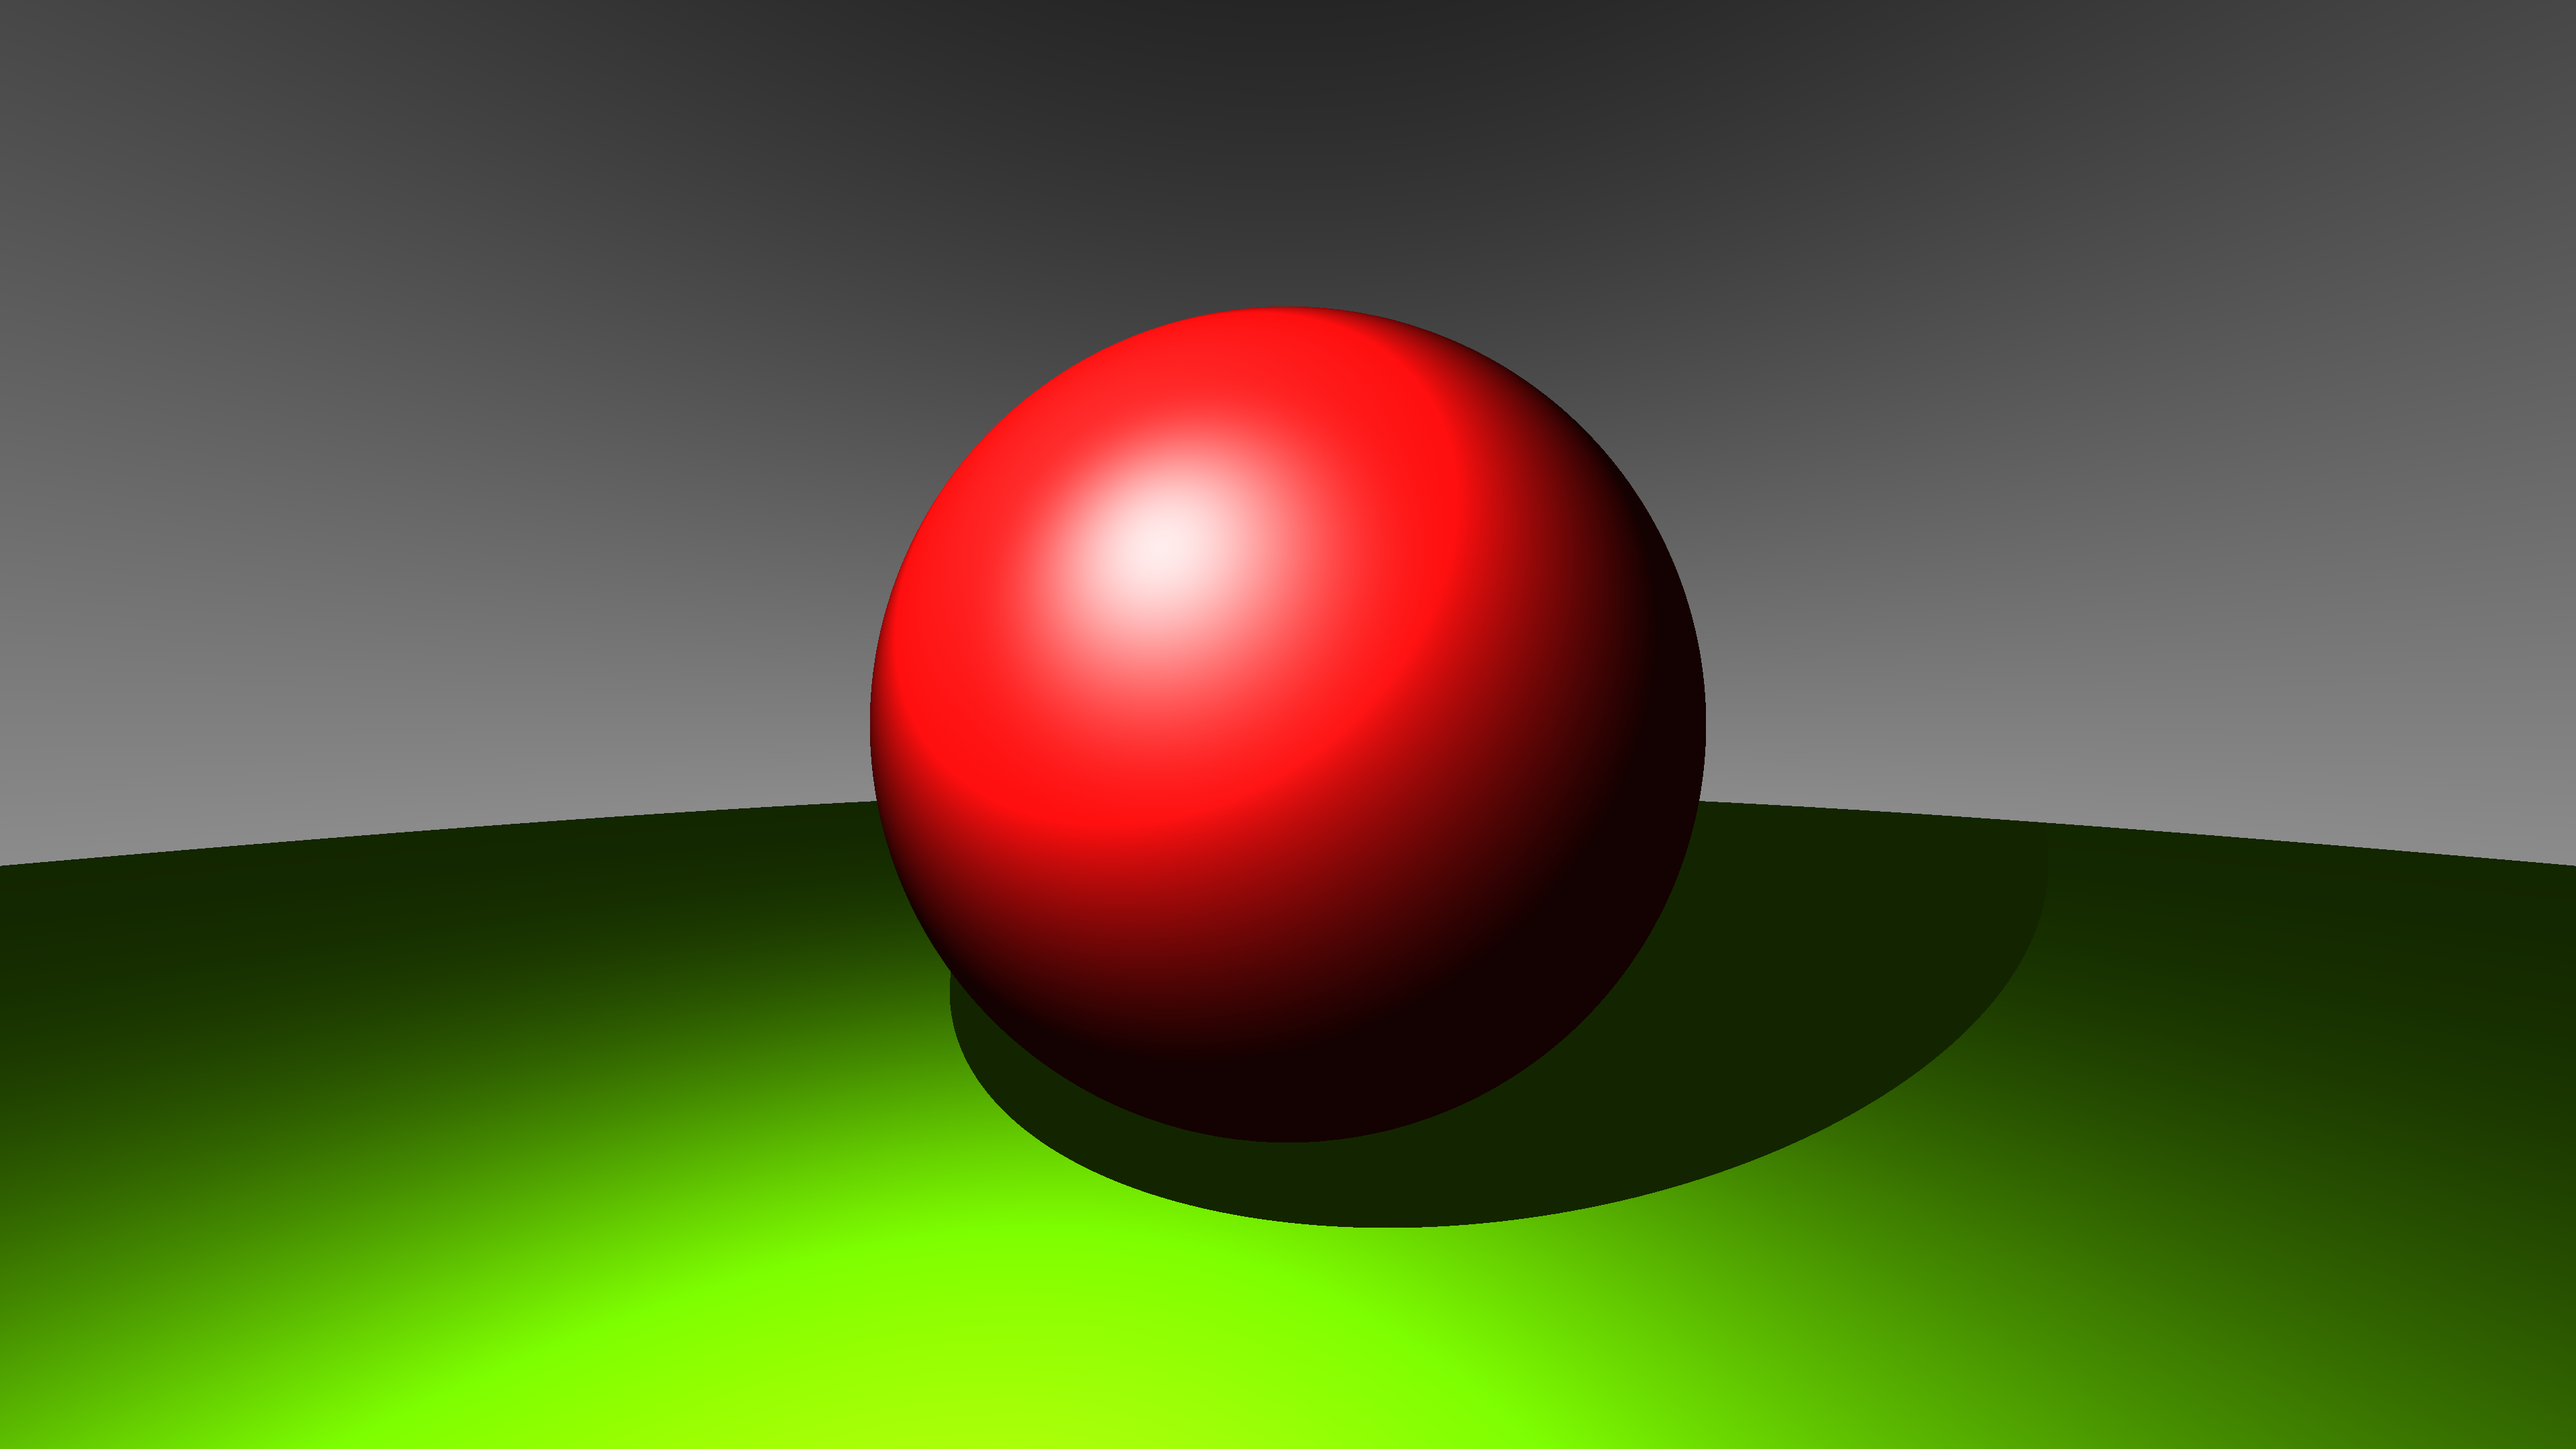
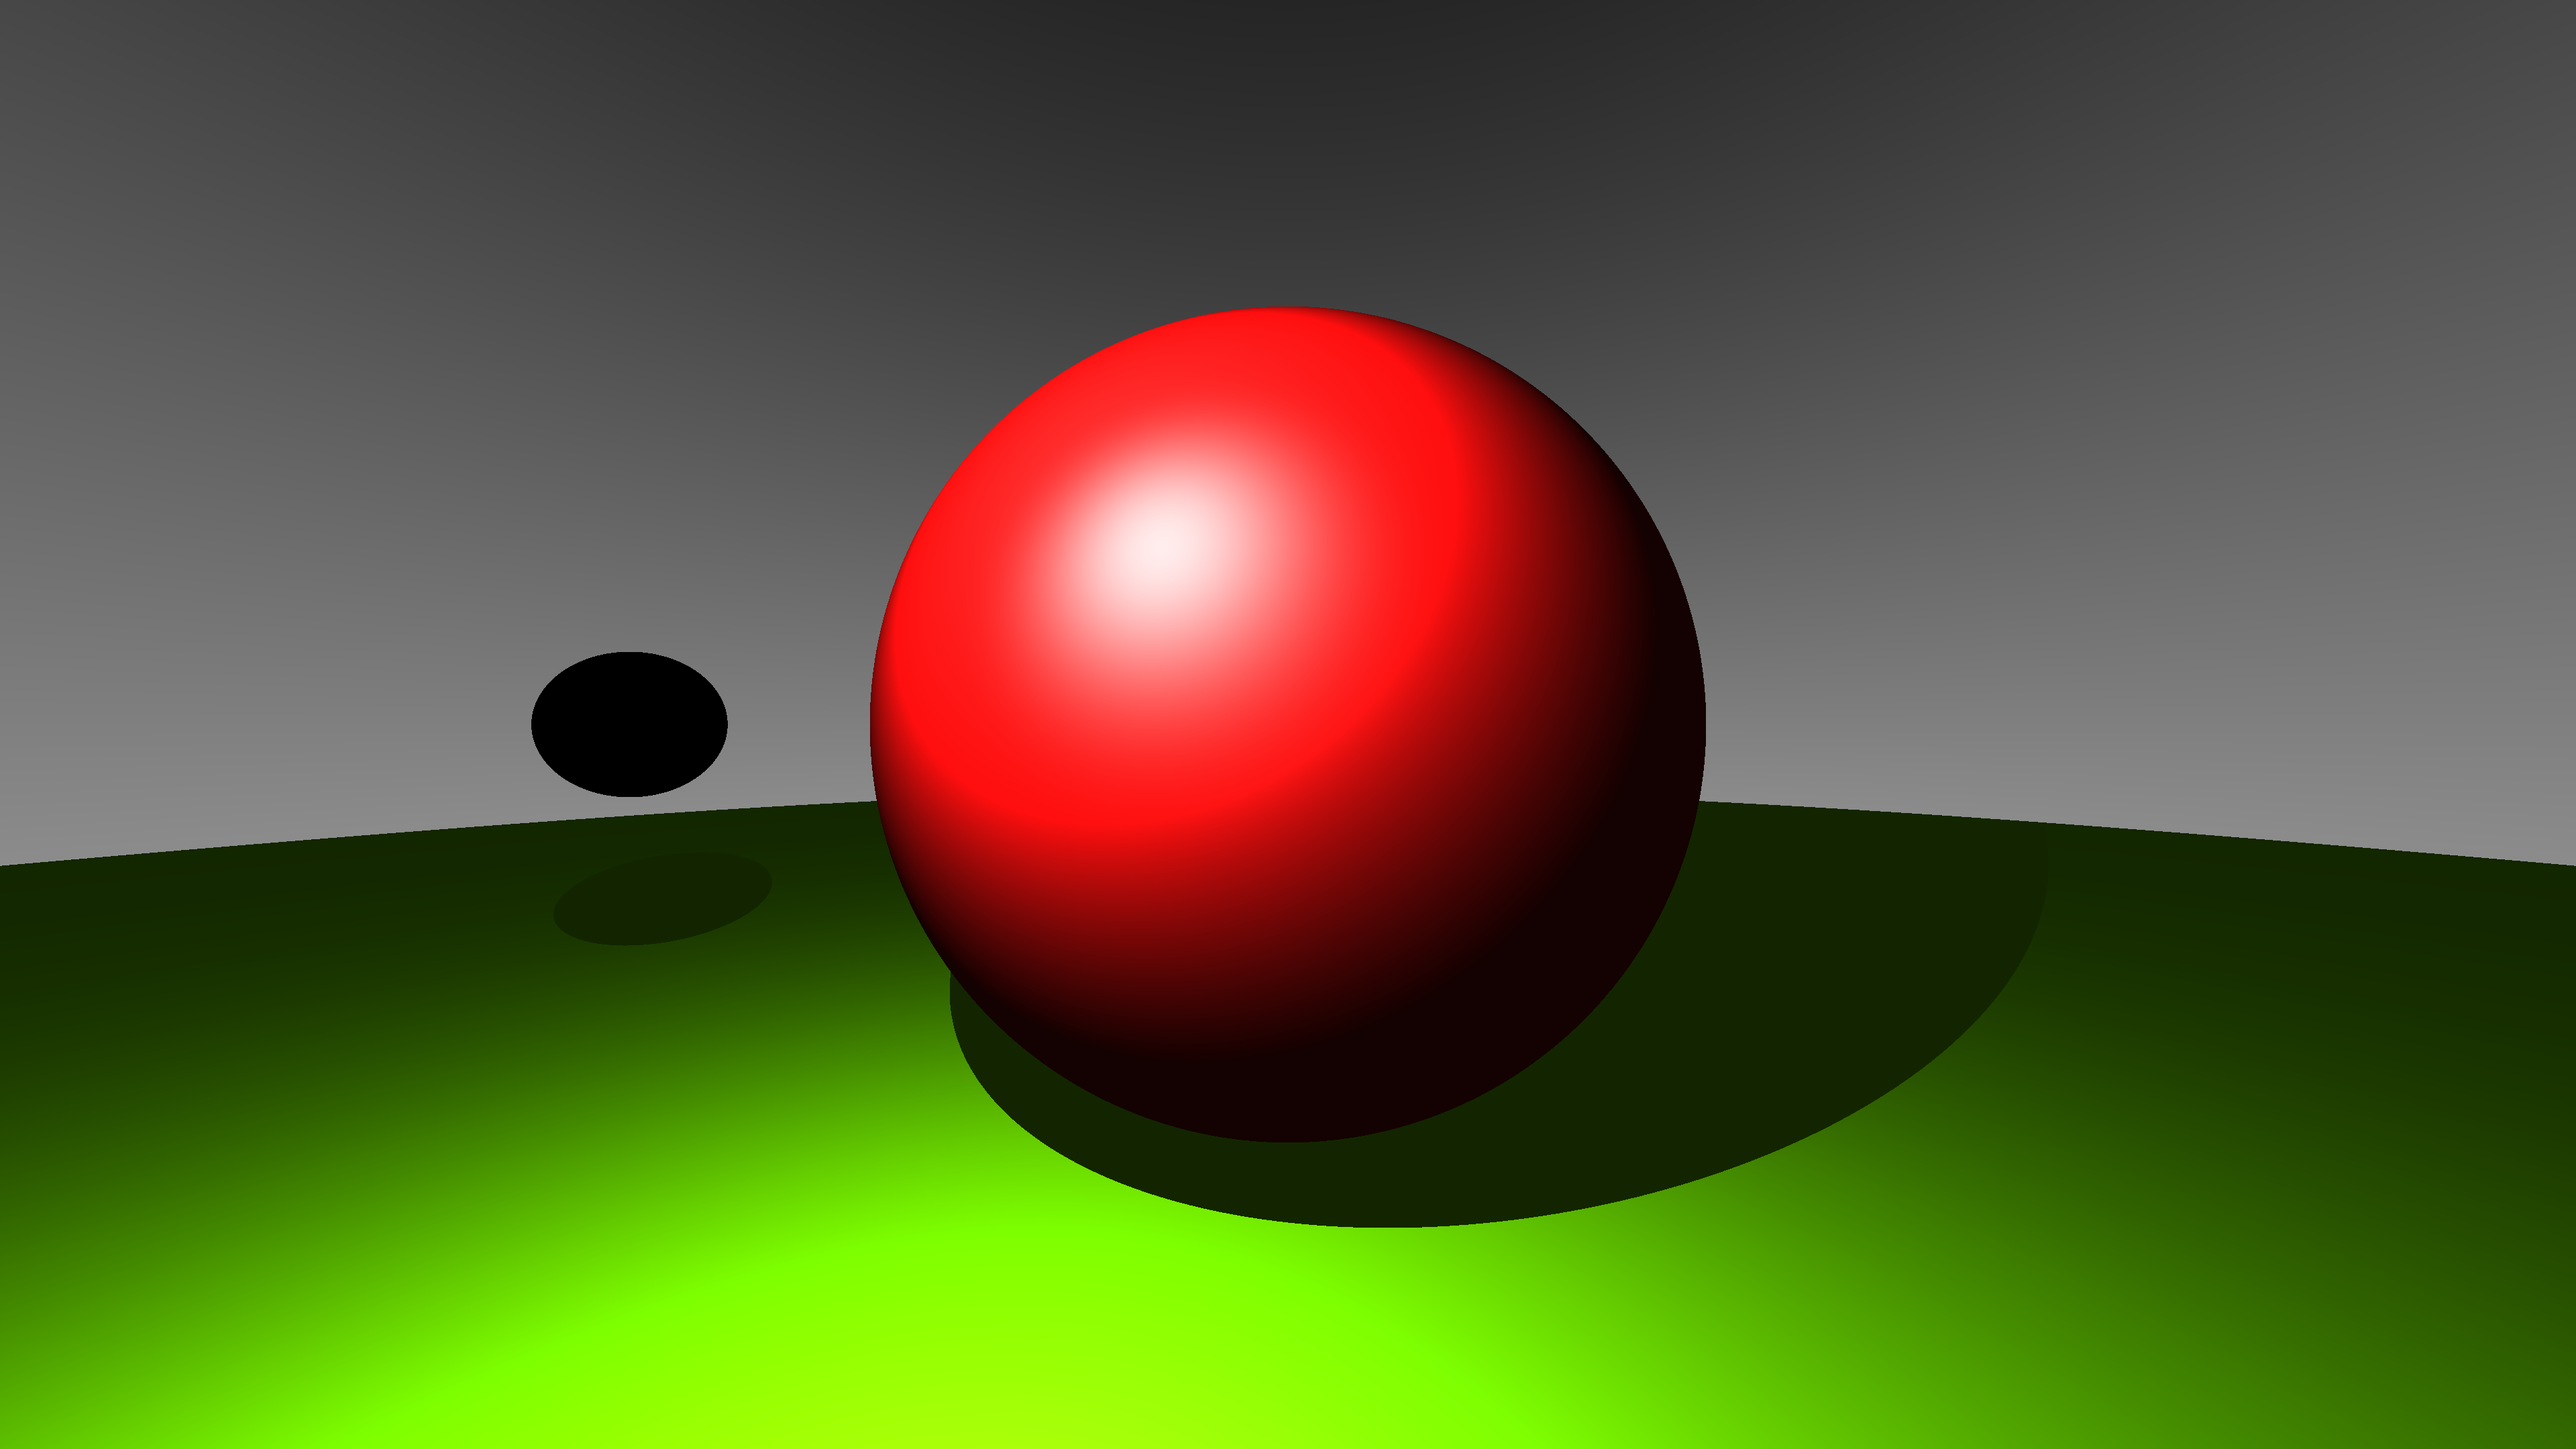
add mirror material, broken

Changed region(s): [[0.1875, 0.4343, 0.2812, 0.5583]]

diff --git a/src/tracer/scene.rs b/src/tracer/scene.rs
@@ -2,7 +2,7 @@ use glam::f32::Vec3;
 use crate::tracer::sphere::Sphere;
 use crate::tracer::hit::Hit;
 use crate::tracer::ray::Ray;
-use crate::tracer::material::Default;
+use crate::tracer::material::{Default, Mirror};
 
 pub struct Scene {
     pub light: Vec3,
@@ -41,17 +41,23 @@ pub fn default() -> Scene {
         light: Vec3::new(-0.25, 0.35, -0.2),
         ambient: Vec3::splat(0.15),
         objects: vec![
-            Sphere{
+            Sphere {
                 origin: Vec3::new(0.0, -100.5, -1.0),
                 color: Vec3::new(124.0, 252.0, 0.0) / 256.0,
                 material: Box::new(Default {}),
                 radius: 100.0
             },
-            Sphere{
+            Sphere {
                 origin: Vec3::new(0.0, 0.0, -1.0),
                 color: Vec3::new(136.0, 8.0, 8.0) / 256.0,
                 material: Box::new(Default {}),
                 radius: 0.5
+            },
+            Sphere {
+                origin: Vec3::new(-0.9, 0.0, -1.0),
+                color: Vec3::ZERO,
+                material: Box::new(Mirror {}),
+                radius: 0.1
             }
         ]
     }

diff --git a/src/tracer/material.rs b/src/tracer/material.rs
@@ -19,11 +19,30 @@ impl Material for Default {
         )
     }
 
-    fn reflect(&self, h: &Hit) -> Option<Ray> {
+    fn reflect(&self, _h: &Hit) -> Option<Ray> {
         None
     }
 
-    fn transmit(&self, h: &Hit) -> Option<Ray> {
+    fn transmit(&self, _h: &Hit) -> Option<Ray> {
+        None
+    }
+}
+
+pub struct Mirror {}
+
+impl Material for Mirror {
+    fn shade(&self, _h: &Hit) -> Vec3 {
+        Vec3::ZERO
+    }
+
+    fn reflect(&self, h: &Hit) -> Option<Ray> {
+        Some(Ray{
+            origin: h.p + 0.001 * h.n,
+            dir: h.p - 2.0 * h.p.dot(h.n).max(0.0) * h.n
+        })
+    }
+
+    fn transmit(&self, _h: &Hit) -> Option<Ray> {
         None
     }
 }

diff --git a/src/tracer/ray.rs b/src/tracer/ray.rs
@@ -12,7 +12,7 @@ impl Ray {
     }
 
     pub fn color(&self, scene: &Scene, depth: u32) -> Vec3 {
-        if depth > 9 {
+        if depth > 1 {
             return Vec3::ZERO;
         }
 
@@ -22,7 +22,12 @@ impl Ray {
                 h.p = self.at(h.t);
 
                 /* unit sphere normal */
-                h.n = (h.p - h.sphere.origin).normalize();
+                h.n = (h.p - h.sphere.origin) / h.sphere.radius;
+
+                h.inside = h.n.dot(self.dir) > 0.0;
+                if h.inside {
+                    h.n = -h.n;
+                }
 
                 /* vector to light from hit point */
                 h.l = scene.light - h.p;

diff --git a/src/tracer/hit.rs b/src/tracer/hit.rs
@@ -8,8 +8,11 @@ pub struct Hit<'a> {
     pub p: Vec3,
     /* vector to light */
     pub l: Vec3,
-    /* sphere normal at hit point */
-    pub n: Vec3
+    /* sphere normal at hit point. pointing away from origin*/
+    pub n: Vec3,
+    /* is the hit inside the sphere? */
+    pub inside: bool
+
 }
 
 impl Hit<'_> {
@@ -19,7 +22,8 @@ impl Hit<'_> {
             sphere: sphere,
             p: Vec3::ZERO,
             l: Vec3::ZERO,
-            n: Vec3::ZERO
+            n: Vec3::ZERO,
+            inside: false
         }
     }
 }

diff --git a/src/tracer/camera.rs b/src/tracer/camera.rs
@@ -23,14 +23,18 @@ impl Camera {
 }
 
 pub fn default() -> Camera {
+    /* viewport height */
     let h = 2.0;
+    /* viewport width */
     let w = h * 16.0 / 9.0;
+    /* focal length */
     let f = 1.0;
+    let origin = Vec3::ZERO;
 
     Camera {
         vp_height: h,
         vp_width: w,
-        origin: Vec3::ZERO,
-        bot_left_corner: -0.5*Vec3::new(w, h, 2.0*f)
+        origin: origin,
+        bot_left_corner: origin - 0.5*Vec3::new(w, h, 2.0*f)
     }
 }

diff --git a/src/tracer/sphere.rs b/src/tracer/sphere.rs
@@ -27,6 +27,7 @@ impl Sphere {
         let eps = 0.001;
         if t < eps {
             t = (-b + disc_root) / (2.0*a);
+
             if t < eps {
                 return None;
             }
